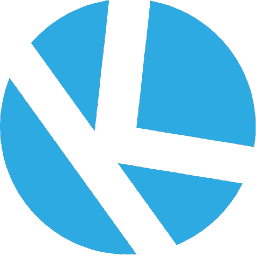
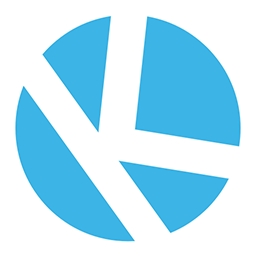
Update branding

diff --git a/README.md b/README.md
@@ -1,8 +1,25 @@
 # Kernel Booking WordPress Plugin
 
-Easily embed Kernel Booking directly into your WordPress site.
+Online bookings made easy, for hotels, camping, glamping and more. Quickly and easily embed your Kernel Booking account into any Joomla website, to take complete advantage of a host of great features:
 
-**NOTE: You must have a [Kernel Booking](https://www.kernelbooking.co.uk) account to use this plugin**
+- Display your rooms, pitches or properties on your website
+- Show an availability calendar
+- Allow visitors to make immediate bookings
+- Take payments securely online
+- Increase revenue by selling extras online
+- Integrate with a range of third party site
+- Use the management back end to help manage arrivals and departures
+- Financial reporting to plot your growth
+- A range of different pricing and subscriptions
+- Friendly support, provided by humans!
+
+You do need a Kernel Booking account for this module to work, but if you don't already have one you can sign up at [www.kernelbooking.co.uk](https://www.kernelbooking.co.uk) today, and benefit from a completely free setup service.
+
+## Installation
+
+1. Upload the plugin files to the `/wp-content/plugins/plugin-name` directory, or install the plugin through the WordPress plugins screen directly.
+2. Activate the plugin through the 'Plugins' screen in WordPress
+3. Embed Kernel Booking into any page by specifying your client alias (found in the URL when you are logged in) and page in the shortcode `[kernel-booking client="kernel-acres" page="search"]`
 
 ## License
 
